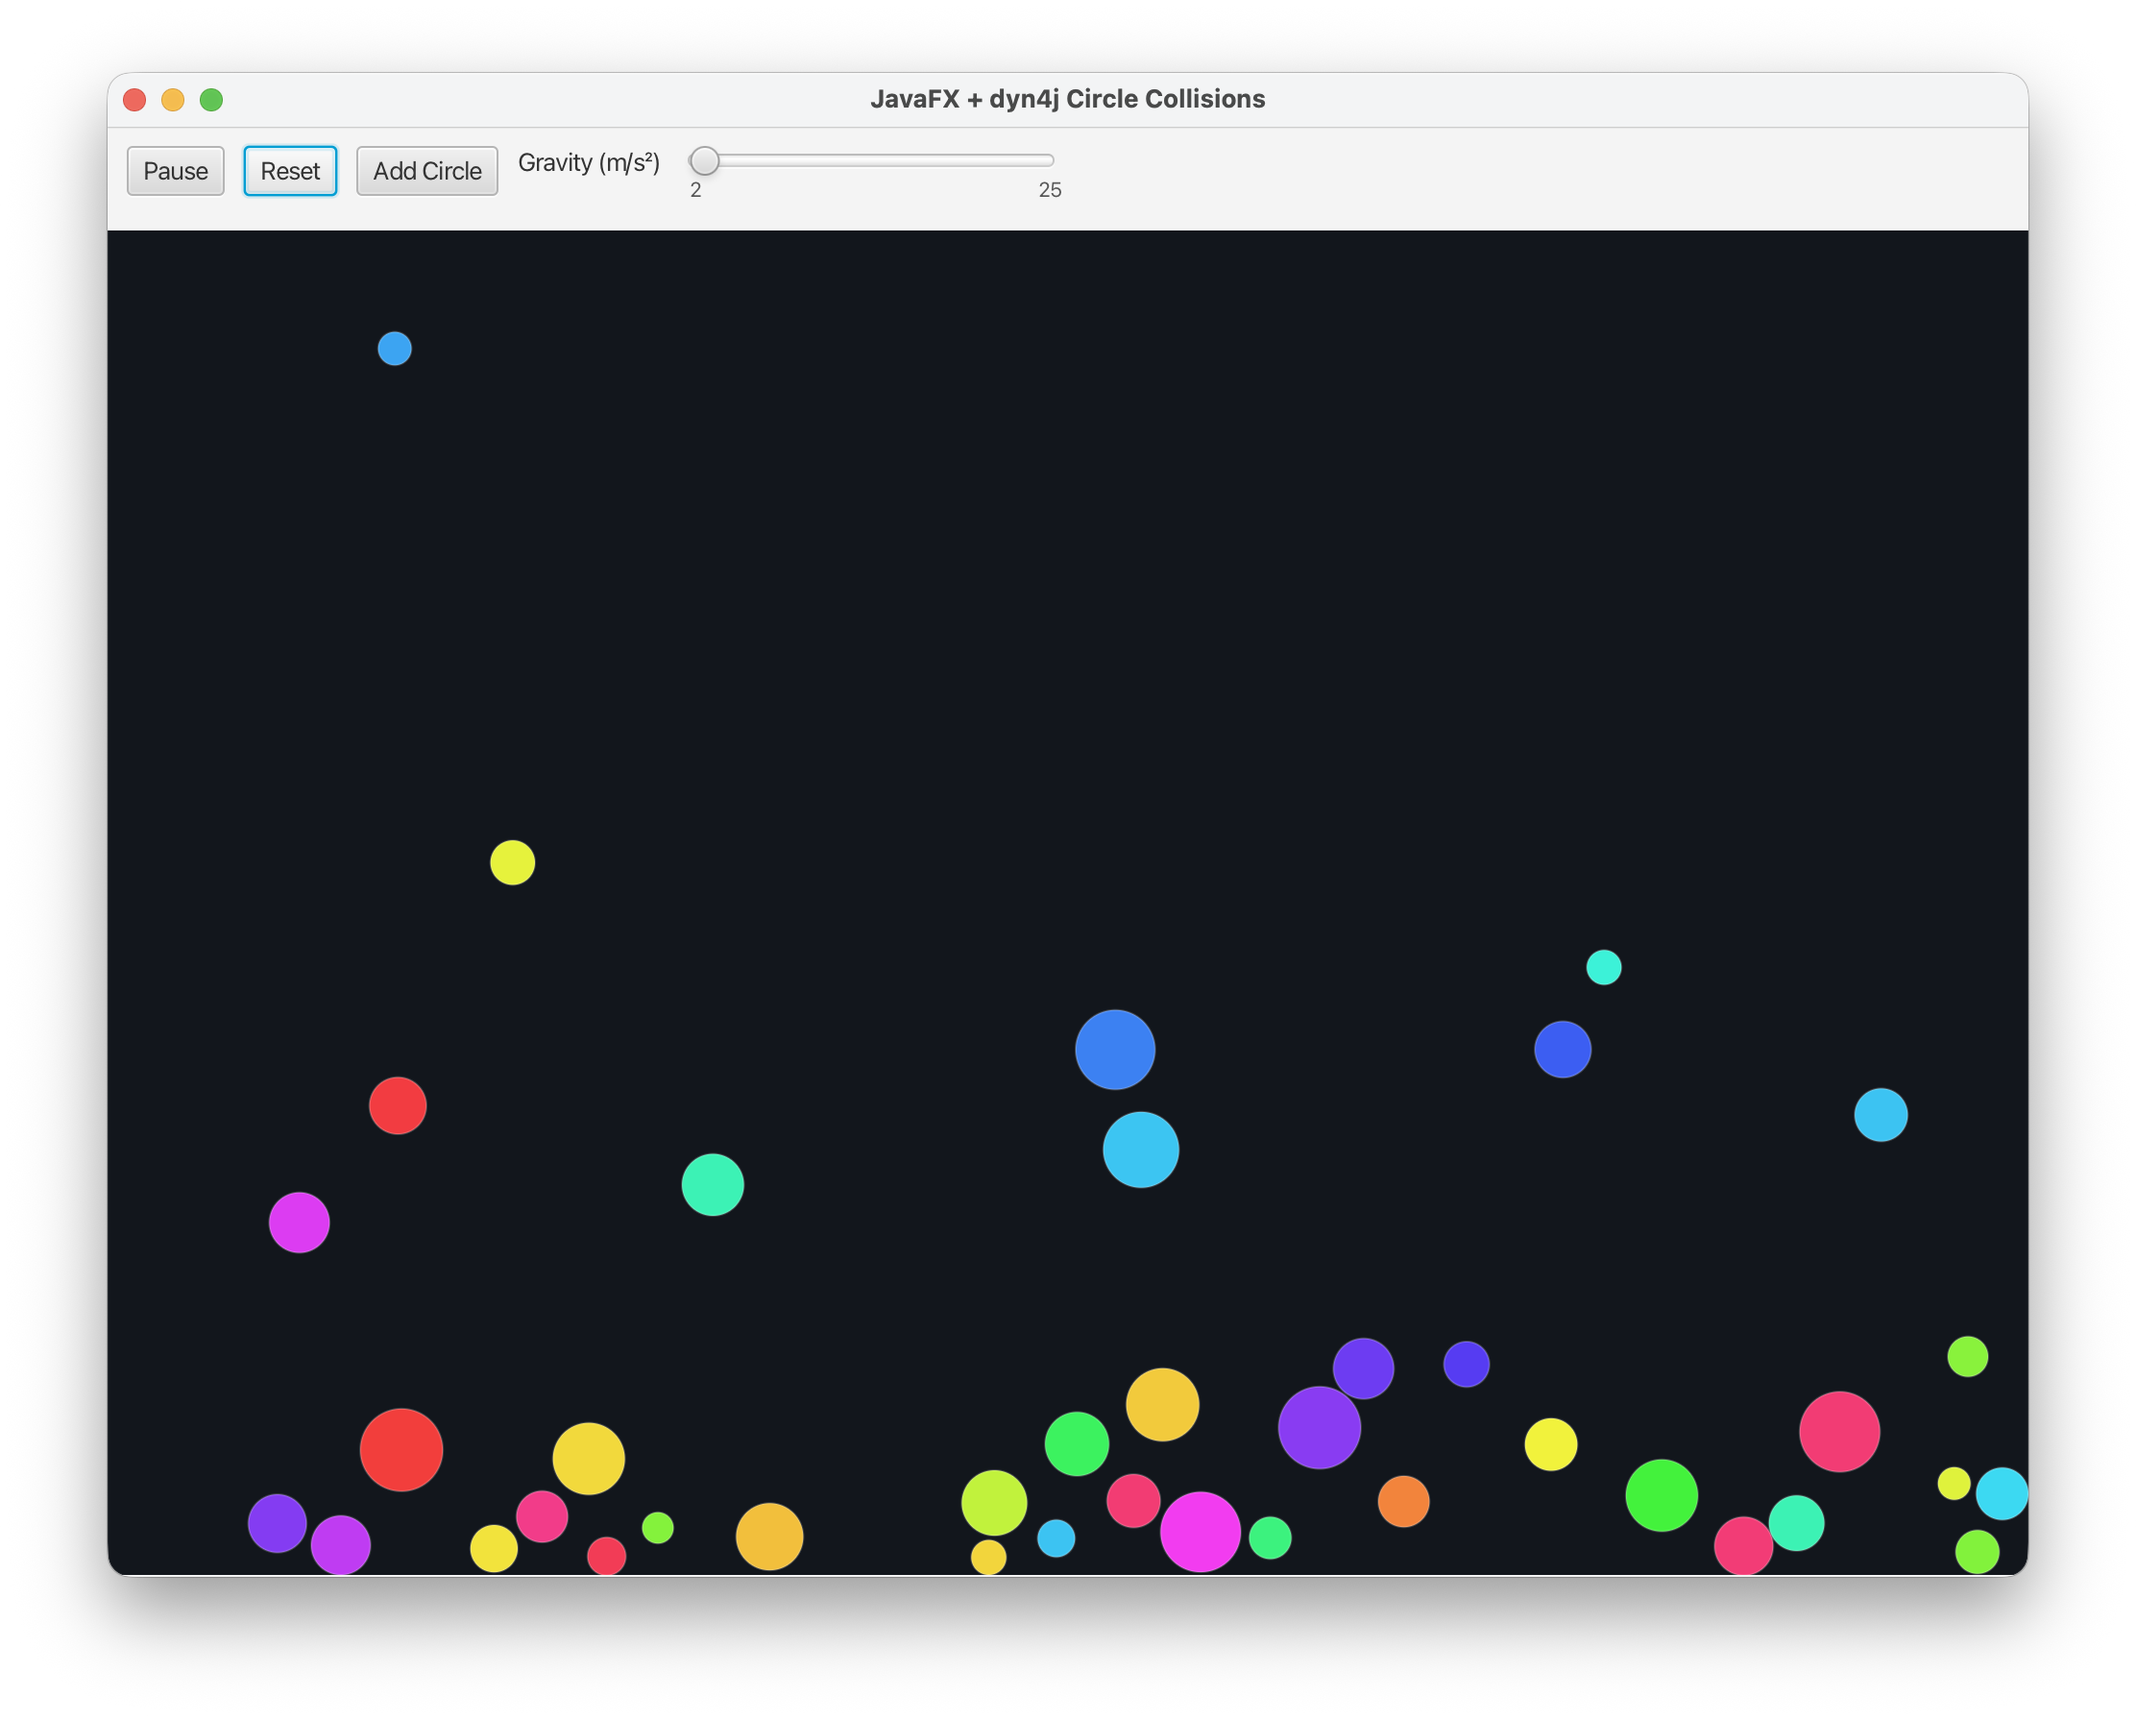
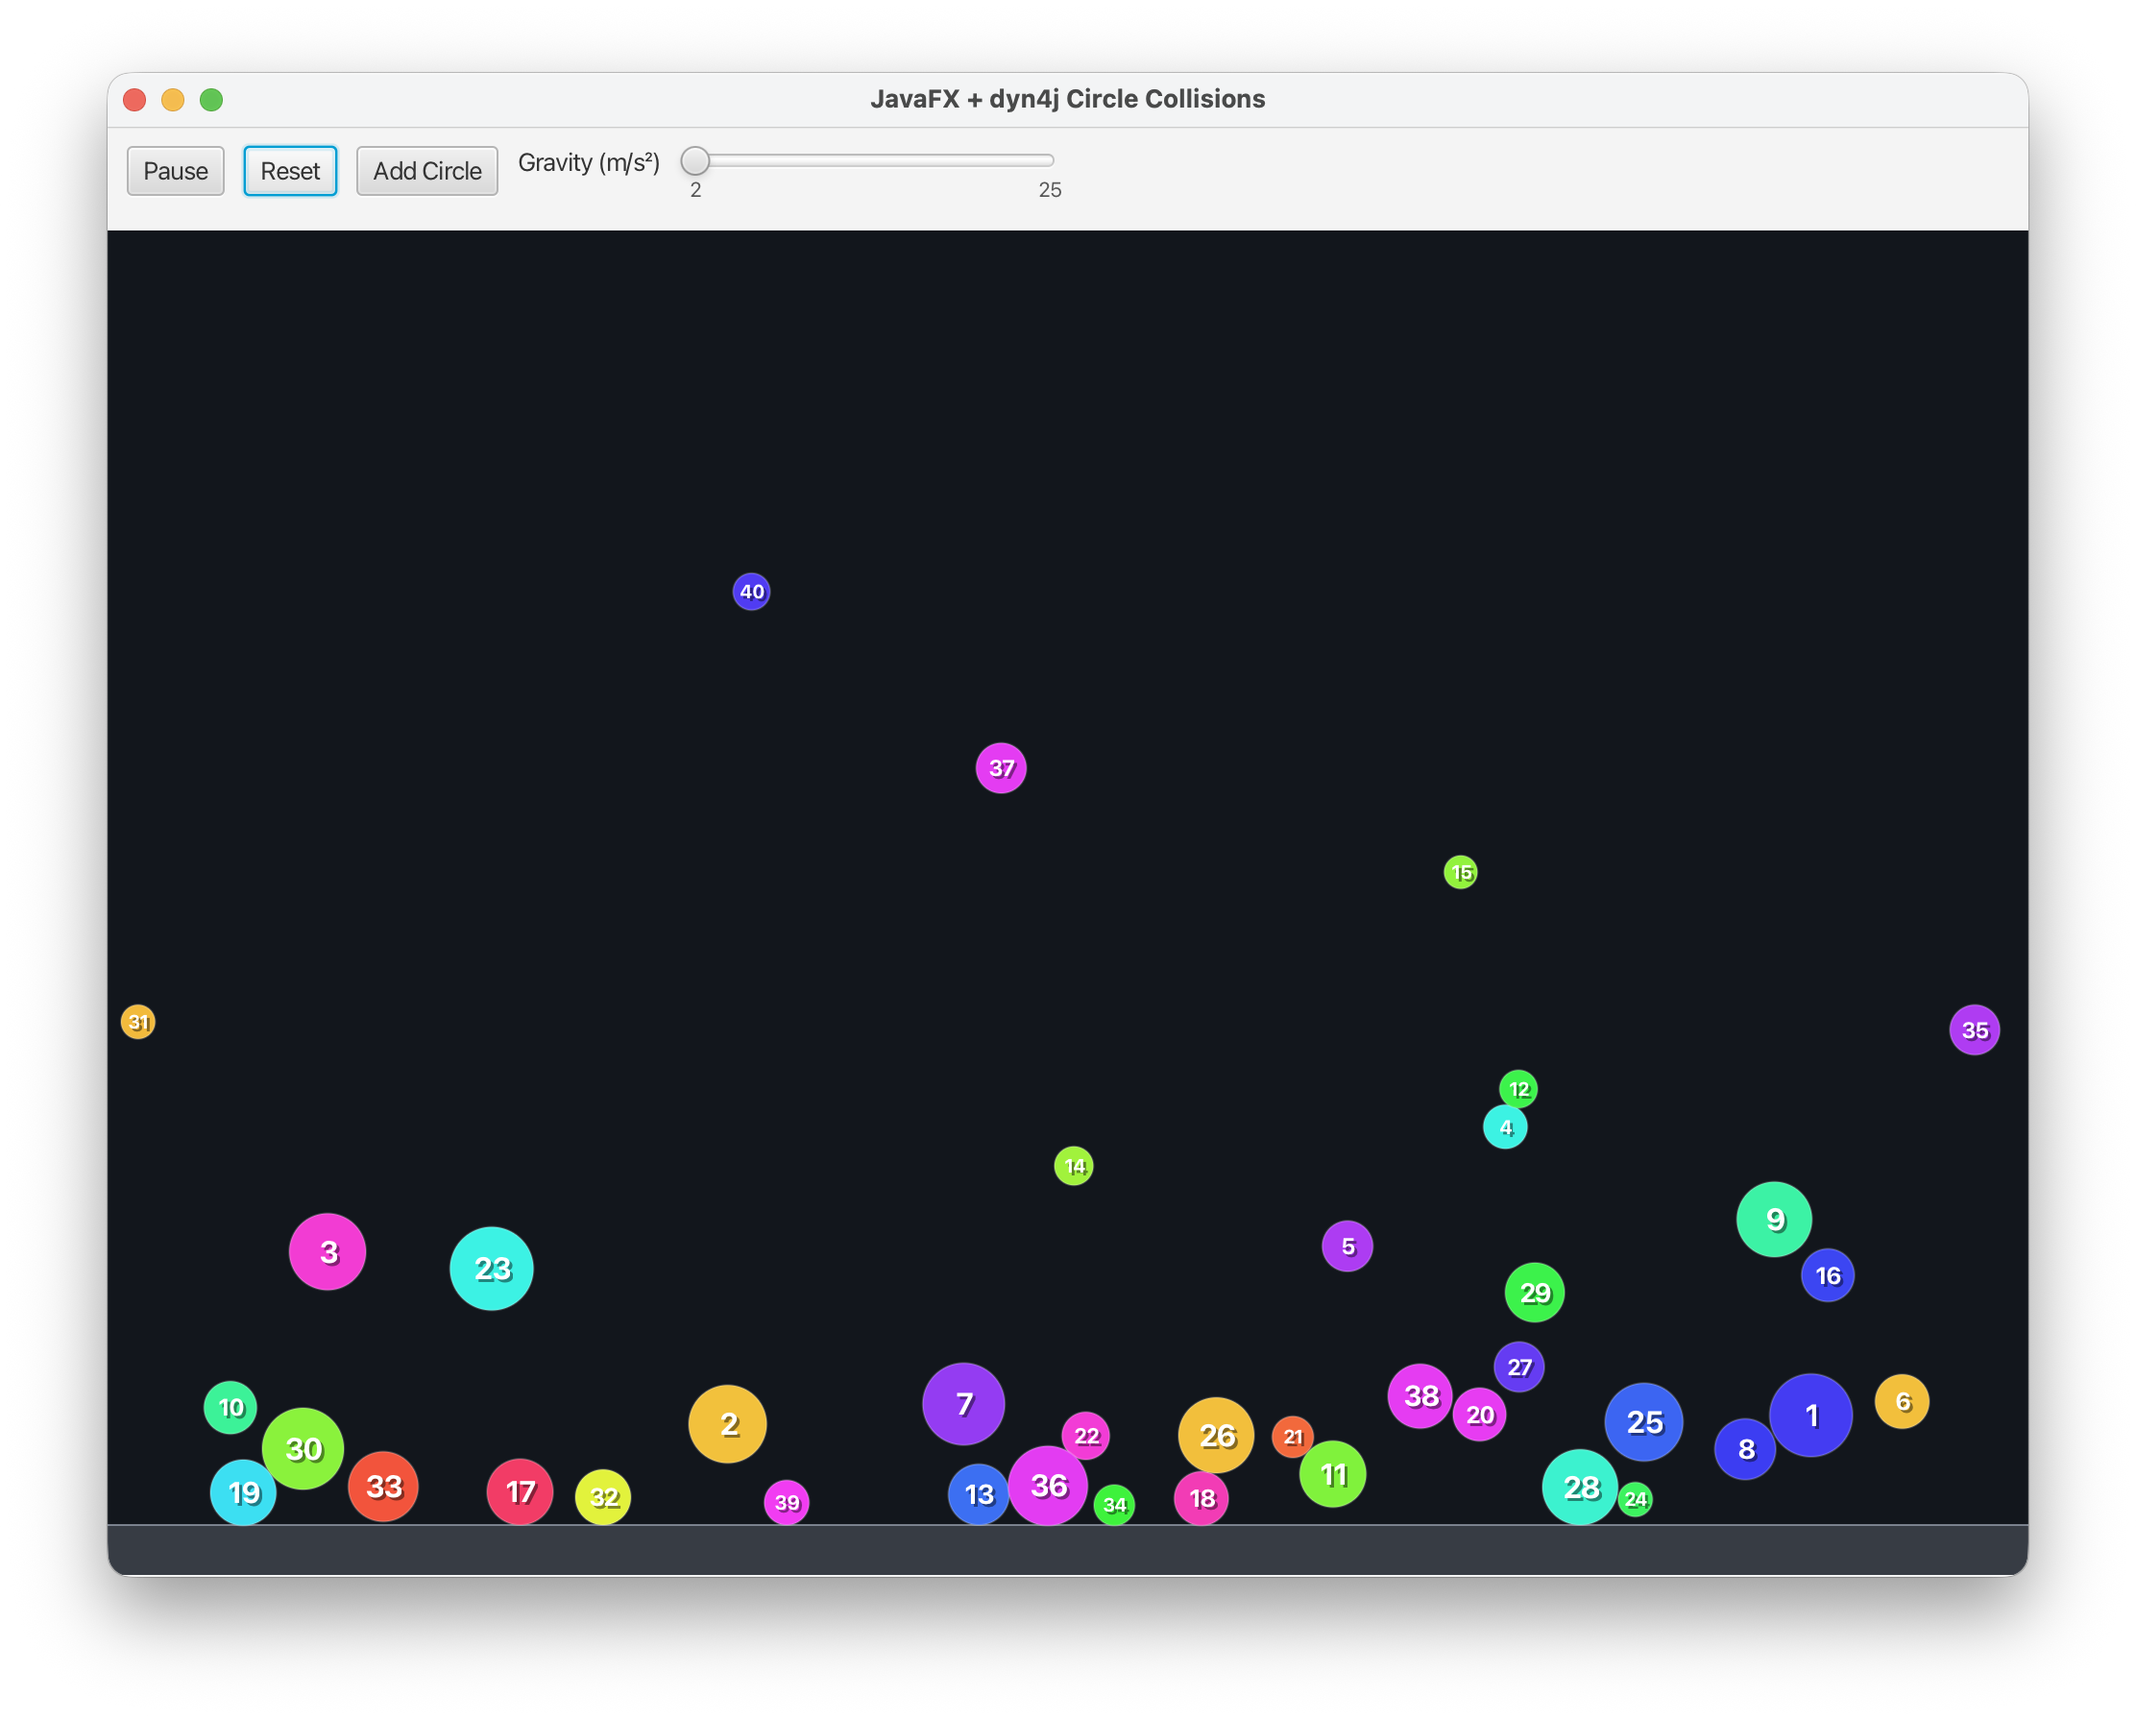
feat(simulation): add ball number labels, reduce idle position-event noise with movement/heartbeat thresholds, and render+align a visible floor with the physics collider

diff --git a/src/main/java/com/simulation/producer/CircleCollisionsApp.java b/src/main/java/com/simulation/producer/CircleCollisionsApp.java
@@ -14,6 +14,9 @@ import javafx.scene.control.Label;
 import javafx.scene.control.Slider;
 import javafx.scene.layout.BorderPane;
 import javafx.scene.layout.HBox;
+import javafx.scene.text.Font;
+import javafx.scene.text.FontWeight;
+import javafx.scene.text.TextAlignment;
 import javafx.scene.paint.Color;
 import javafx.stage.Stage;
 import org.springframework.boot.builder.SpringApplicationBuilder;
@@ -45,12 +48,18 @@ public class CircleCollisionsApp extends Application {
     private static final int INITIAL_CIRCLES = 40;
     private static final double MIN_RADIUS_PX = 8;
     private static final double MAX_RADIUS_PX = 22;
+    private static final double FLOOR_VISUAL_HEIGHT_PX = 26;
     private static final long POSITION_EMIT_INTERVAL_MS = 100;
+    private static final double MIN_SPEED_TO_EMIT = 0.06; // m/s
+    private static final double MIN_POSITION_DELTA_TO_EMIT = 0.015; // meters
+    private static final long IDLE_HEARTBEAT_EMIT_INTERVAL_MS = 3000;
 
     private final Random random = new Random();
     private final List<Body> circles = new ArrayList<>();
     private final List<Color> circleColors = new ArrayList<>();
     private final Map<Body, String> ballIds = new HashMap<>();
+    private final Map<String, Vector2> lastEmittedPositions = new HashMap<>();
+    private final Map<String, Long> lastEmittedAtMs = new HashMap<>();
     private final Set<String> activePairContacts = new HashSet<>();
     private EventEmitter eventEmitter;
     private ConfigurableApplicationContext springContext;
@@ -196,14 +205,17 @@ public class CircleCollisionsApp extends Application {
         circles.clear();
         circleColors.clear();
         ballIds.clear();
+        lastEmittedPositions.clear();
+        lastEmittedAtMs.clear();
         activePairContacts.clear();
         nextBallId = 1;
         lastPositionEmitMs = 0;
 
         double thicknessPx = 30;
+        double floorTopPx = HEIGHT - FLOOR_VISUAL_HEIGHT_PX;
 
         // floor
-        addStaticWall(WIDTH / 2.0, HEIGHT + thicknessPx / 2.0, WIDTH, thicknessPx);
+        addStaticWall(WIDTH / 2.0, floorTopPx + thicknessPx / 2.0, WIDTH, thicknessPx);
         // ceiling
         addStaticWall(WIDTH / 2.0, -thicknessPx / 2.0, WIDTH, thicknessPx);
         // left wall
@@ -262,8 +274,25 @@ public class CircleCollisionsApp extends Application {
 
         for (Body body : circles) {
             String ballId = ballIds.get(body);
+            if (ballId == null) {
+                continue;
+            }
+
             Vector2 p = body.getWorldCenter();
             Vector2 v = body.getLinearVelocity();
+
+            double speed = Math.hypot(v.x, v.y);
+            Vector2 lastEmittedPosition = lastEmittedPositions.get(ballId);
+            long lastEmittedAt = lastEmittedAtMs.getOrDefault(ballId, 0L);
+            boolean heartbeatDue = now - lastEmittedAt >= IDLE_HEARTBEAT_EMIT_INTERVAL_MS;
+            boolean movedEnough = lastEmittedPosition == null
+                    || p.distance(lastEmittedPosition) >= MIN_POSITION_DELTA_TO_EMIT;
+            boolean movingEnough = speed >= MIN_SPEED_TO_EMIT;
+
+            if (!movingEnough && !movedEnough && !heartbeatDue) {
+                continue;
+            }
+
             eventEmitter.emitPosition(new PositionEvent(
                     ballId,
                     now,
@@ -272,6 +301,8 @@ public class CircleCollisionsApp extends Application {
                     v.x,
                     v.y
             ));
+            lastEmittedPositions.put(ballId, new Vector2(p.x, p.y));
+            lastEmittedAtMs.put(ballId, now);
         }
     }
 
@@ -282,6 +313,15 @@ public class CircleCollisionsApp extends Application {
     private void render(GraphicsContext gc) {
         gc.setFill(Color.rgb(18, 22, 28));
         gc.fillRect(0, 0, WIDTH, HEIGHT);
+
+        // visible ground (physics floor already exists in the world)
+        double floorY = HEIGHT - FLOOR_VISUAL_HEIGHT_PX;
+        gc.setFill(Color.rgb(55, 60, 68));
+        gc.fillRect(0, floorY, WIDTH, FLOOR_VISUAL_HEIGHT_PX);
+        gc.setStroke(Color.rgb(150, 158, 172, 0.75));
+        gc.strokeLine(0, floorY, WIDTH, floorY);
+
+        gc.setTextAlign(TextAlignment.CENTER);
 
         for (int i = 0; i < circles.size(); i++) {
             Body body = circles.get(i);
@@ -297,6 +337,20 @@ public class CircleCollisionsApp extends Application {
 
             gc.setStroke(Color.rgb(255, 255, 255, 0.2));
             gc.strokeOval(x - radiusPx, y - radiusPx, radiusPx * 2, radiusPx * 2);
+
+            String ballId = ballIds.getOrDefault(body, "");
+            String label = ballId.startsWith("ball-") ? ballId.substring("ball-".length()) : ballId;
+
+            double fontSize = Math.max(10, Math.min(16, radiusPx * 0.9));
+            gc.setFont(Font.font("System", FontWeight.BOLD, fontSize));
+
+            double baselineY = y + (fontSize * 0.35);
+
+            gc.setFill(Color.rgb(0, 0, 0, 0.45));
+            gc.fillText(label, x + 1.5, baselineY + 1.5);
+
+            gc.setFill(Color.WHITE);
+            gc.fillText(label, x, baselineY);
         }
     }
 

diff --git a/README.md b/README.md
@@ -151,12 +151,6 @@ This project includes a minimal gateway skeleton:
 Run it:
 
 ```bash
-mvn -DskipTests spring-boot:run -Dspring-boot.run.main-class=com.simulation.producer.gateway.EventGatewayApplication
-```
-
-If needed, force gateway port explicitly:
-
-```bash
 SERVER_PORT=8080 mvn -DskipTests spring-boot:run -Dspring-boot.run.main-class=com.simulation.producer.gateway.EventGatewayApplication
 ```
 
